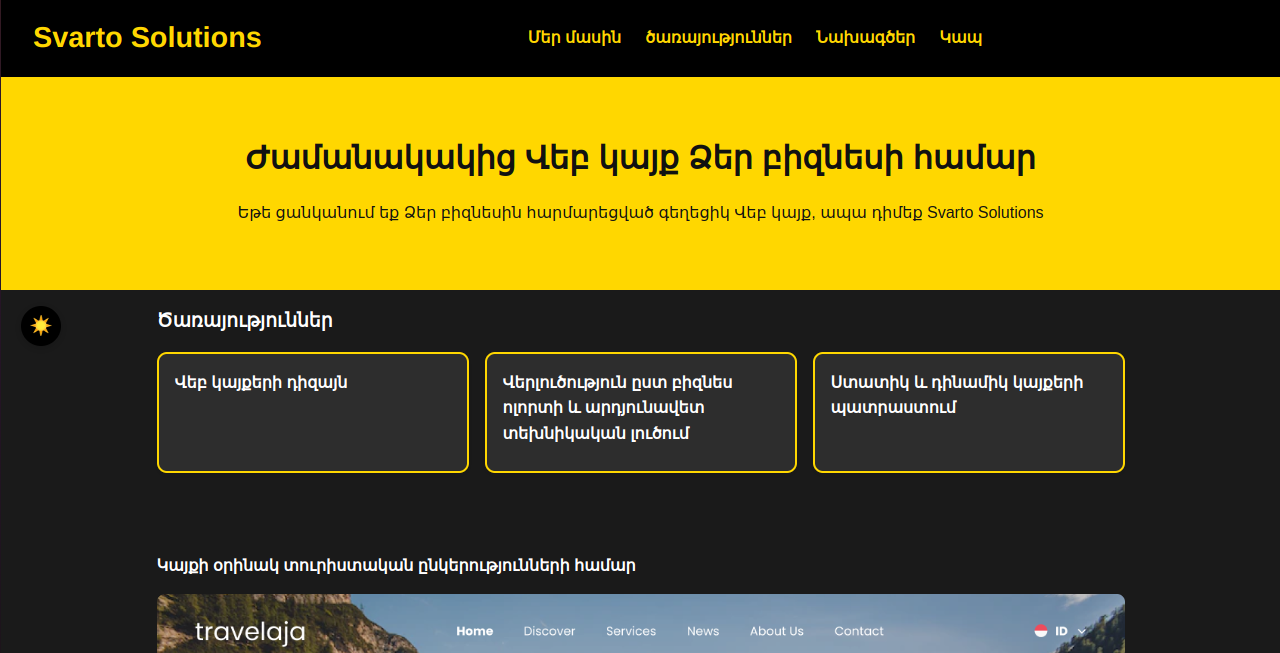
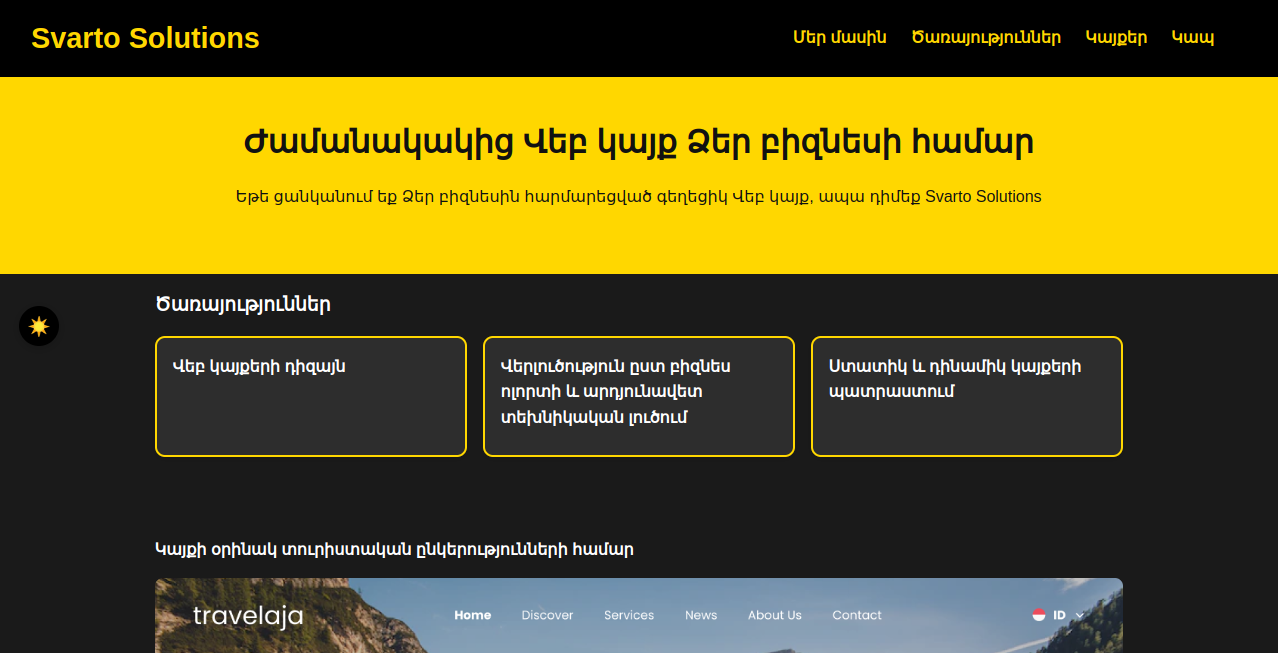
Add light mode as deafault

diff --git a/index.html b/index.html
@@ -88,12 +88,15 @@
     nav {
       display: flex;
       gap: 1.5rem;
+      margin-left: auto;
+      margin-right: 2rem;
     }
 
     nav a {
       color: var(--svarto-yellow);
       text-decoration: none;
       font-weight: bold;
+      white-space: nowrap;
     }
 
     .hero {
@@ -261,7 +264,6 @@
     .header-controls {
       display: flex;
       align-items: center;
-      gap: 1rem;
     }
 
     .theme-toggle {
@@ -318,6 +320,7 @@
         width: 100%;
         padding: 1rem;
         z-index: 1000;
+        margin: 0;
       }
 
       nav.show {
@@ -385,13 +388,13 @@
       const savedTheme = localStorage.getItem('theme');
       const themeToggle = document.querySelector('.theme-toggle');
       
-      if (savedTheme === 'light') {
-        document.documentElement.removeAttribute('data-theme');
-        themeToggle.textContent = '🌙';
-      } else {
+      if (savedTheme === 'dark') {
         document.documentElement.setAttribute('data-theme', 'dark');
         themeToggle.textContent = '☀';
-        localStorage.setItem('theme', 'dark');
+      } else {
+        document.documentElement.removeAttribute('data-theme');
+        themeToggle.textContent = '🌙';
+        localStorage.setItem('theme', 'light');
       }
     });
   </script>
@@ -403,8 +406,8 @@
     <h1>Svarto Solutions</h1>
     <nav>
       <a href="#about">Մեր մասին</a>
-      <a href="#services">ծառայություններ</a>
-      <a href="#projects">Նախագծեր</a>
+      <a href="#services">Ծառայություններ</a>
+      <a href="#projects">Կայքեր</a>
       <a href="#contact">Կապ</a>
     </nav>
     <div class="header-controls">
